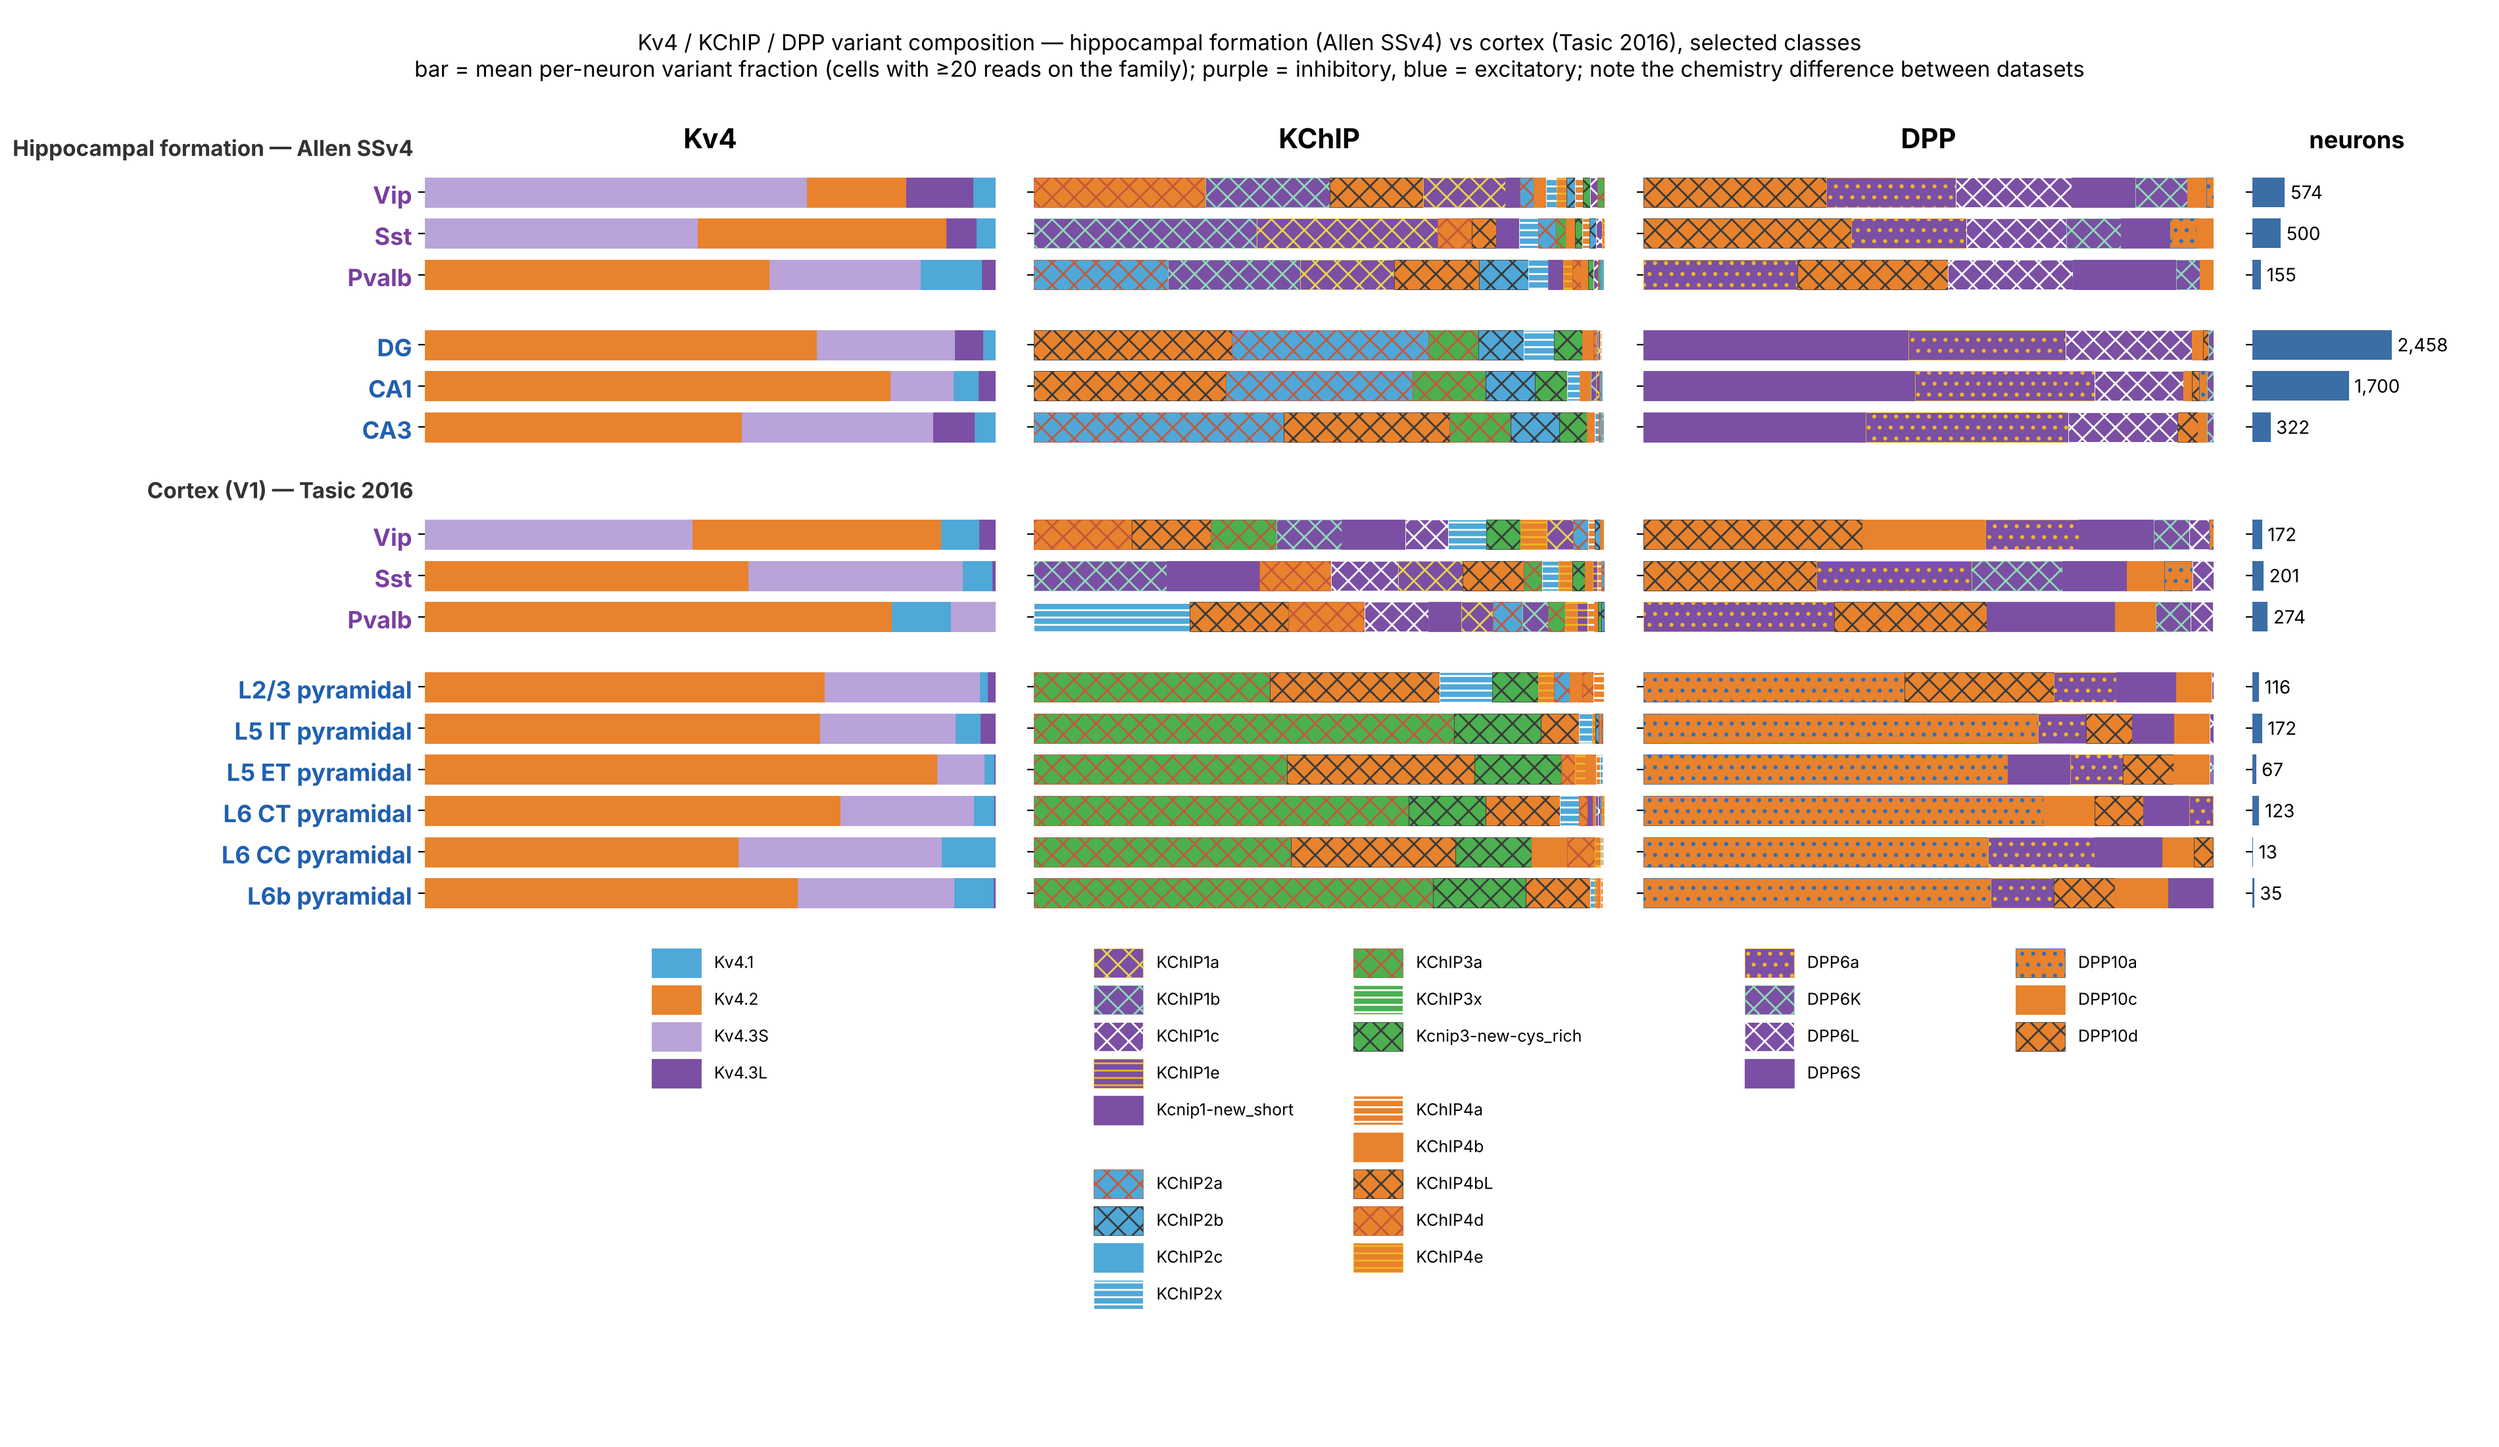
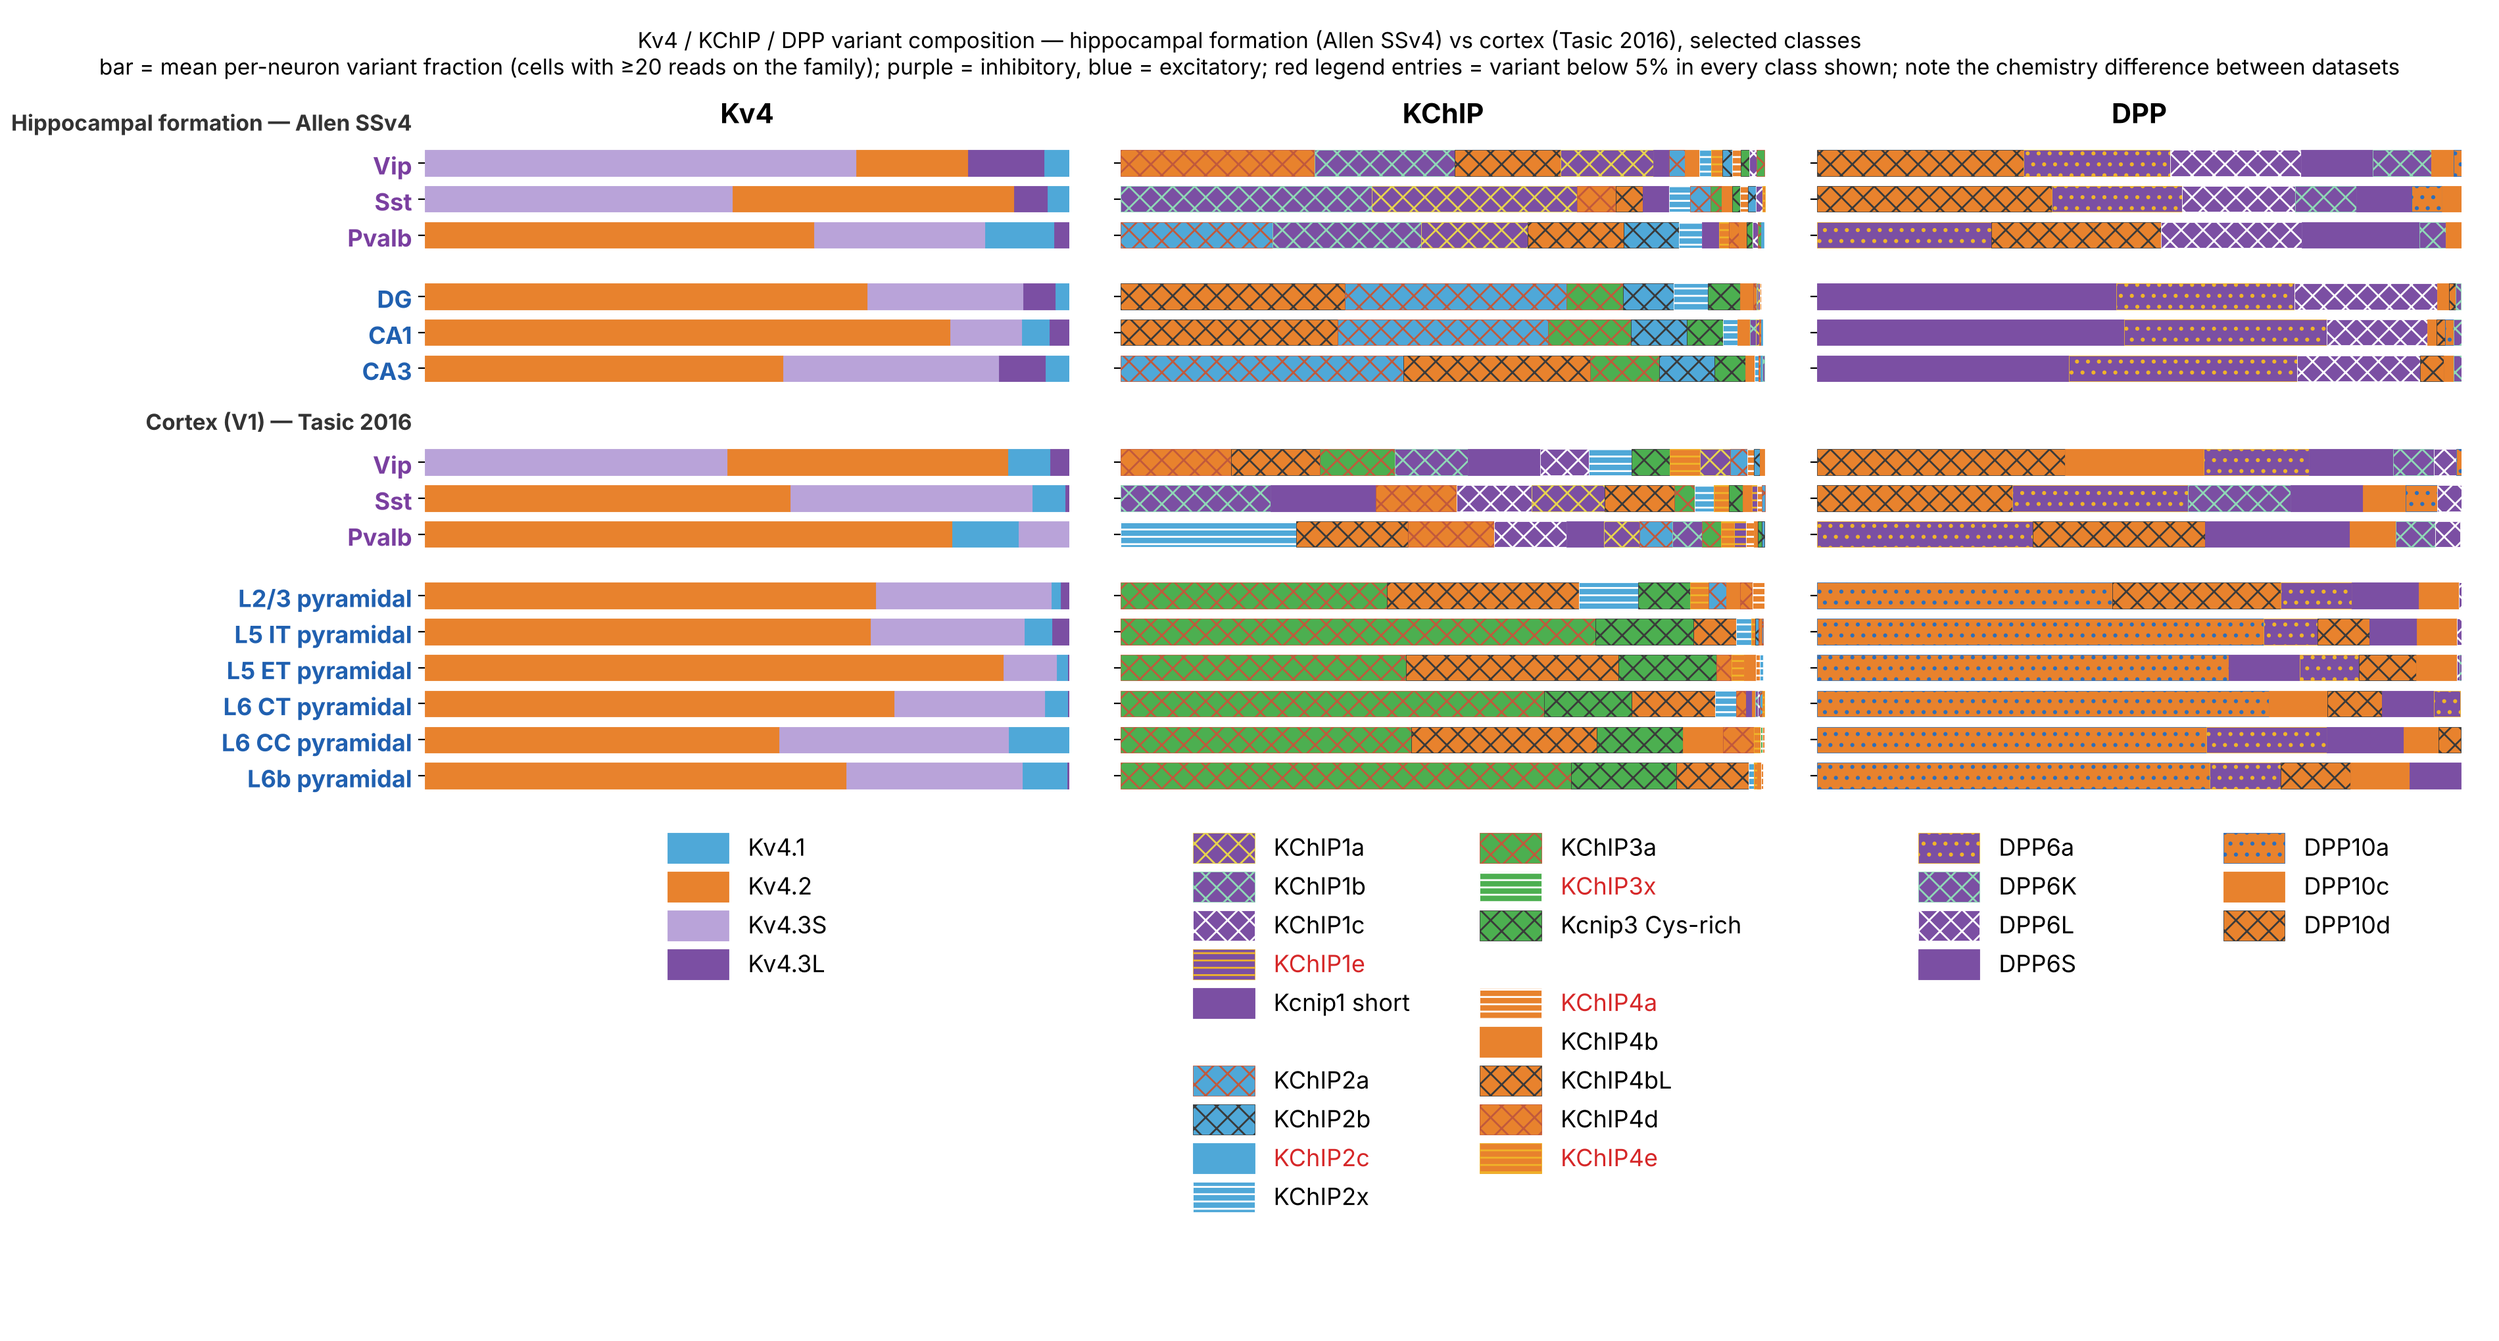
Simplified composition figure: drop neuron column, larger legend, flag <5% variants in red
Claude-Session: https://claude.ai/code/session_01ArSnVWkoaSUa7FVzi6Tb2a

diff --git a/scripts/simple_composition.py b/scripts/simple_composition.py
@@ -73,7 +73,7 @@ for ri, (region, d, classes) in enumerate(rows):
         if prev_inh is not None and inh != prev_inh: y += 0.7
         ypos[(region, label)] = y; region_of[(region, label)] = region; y += 1.0; prev_inh = inh
 ymax = y
-fig, axes = plt.subplots(1, 4, figsize=(19, 0.5 * ymax + 2.0), sharey=True, gridspec_kw={'width_ratios': [3, 3, 3, 1.1]})
+fig, axes = plt.subplots(1, 3, figsize=(19, 0.5 * ymax + 1.2), sharey=True)
 BH = 0.72
 for ax, panel in zip(axes[:3], PANEL_V):
     for region, label, fr, n, nu in comp:
@@ -94,36 +94,39 @@ for lbl, k in zip(axes[0].get_yticklabels(), keys):
 for region, d, classes in rows:
     top = ymax - ypos[(region, classes[0][0])] + 0.75
     axes[0].text(-0.02, top, region, fontsize=12, fontweight='bold', ha='right', va='bottom', color='#333', transform=axes[0].get_yaxis_transform())
-# n cells
-ax = axes[3]
-nmax = max(n for _, _, _, n, _ in comp)
-for region, label, fr, n, nu in comp:
-    yy = ymax - ypos[(region, label)]
-    ax.barh(yy, n, color='#3A6EA5', height=BH)
-    ax.text(n + nmax * 0.04, yy, f'{n:,}', va='center', ha='left', fontsize=10)
-ax.set_xlim(0, nmax * 1.5); ax.set_xticks([]); ax.set_title('neurons', fontsize=13, fontweight='bold')
-for sp in ax.spines.values(): sp.set_visible(False)
 # legends
+DISPLAY = {'Kcnip1-new_short': 'Kcnip1 short', 'Kcnip3-new-cys_rich': 'Kcnip3 Cys-rich'}
+maxfrac = {}
+for region, label, fr, n, nu in comp:
+    for panel in PANEL_V:
+        for vc, f in fr[panel].items(): maxfrac[vc] = max(maxfrac.get(vc, 0), f)
+UNSEEN = {vc for vc, m in maxfrac.items() if m < 0.05}
 def legend_patches(vlist):
     pats = []
     for vc in vlist:
         if vc == BLANK: pats.append(mpatches.Patch(facecolor='none', edgecolor='none', label=' ')); continue
         base, kind, pcolor = VSPEC[vc]
-        pats.append(mpatches.Patch(facecolor=base, edgecolor=pcolor, hatch=HATCH[kind], label=vc, linewidth=0.3))
+        pats.append(mpatches.Patch(facecolor=base, edgecolor=pcolor, hatch=HATCH[kind], label=DISPLAY.get(vc, vc), linewidth=0.3))
     return pats
 for ax, panel in zip(axes[:3], PANEL_V):
     gl = LEGEND_GROUPS[panel]; xs = [0.5] if len(gl) == 1 else [0.28, 0.76]
-    legs = [ax.legend(handles=legend_patches([x for x in vl if x in PANEL_V[panel] or x == BLANK]), loc='upper center', bbox_to_anchor=(x, -0.01),
-                      ncol=1, fontsize=9, frameon=False, handlelength=3.0, handleheight=2.3) for x, vl in zip(xs, gl)]
+    legs = []
+    for x, vl in zip(xs, gl):
+        vl = [v for v in vl if v in PANEL_V[panel] or v == BLANK]
+        leg = ax.legend(handles=legend_patches(vl), loc='upper center', bbox_to_anchor=(x, -0.01),
+                        ncol=1, fontsize=13, frameon=False, handlelength=2.6, handleheight=1.6, labelspacing=0.35)
+        for txt, vc in zip(leg.get_texts(), vl):
+            if vc in UNSEEN: txt.set_color('#D62728')
+        legs.append(leg)
     for leg in legs[:-1]: ax.add_artist(leg)
 fig.suptitle('Kv4 / KChIP / DPP variant composition — hippocampal formation vs cortex, selected classes\n'
              f'bar = mean per-neuron variant fraction (cells with ≥{MIN_READS} reads on the family); purple = inhibitory, blue = excitatory; '
-             'both datasets Allen SMART-seq v4' if CTX_SOURCE == 'visp' else
+             'both datasets Allen SMART-seq v4; red legend entries = variant below 5% in every class shown' if CTX_SOURCE == 'visp' else
              'Kv4 / KChIP / DPP variant composition — hippocampal formation (Allen SSv4) vs cortex (Tasic 2016), selected classes\n'
-             f'bar = mean per-neuron variant fraction (cells with ≥{MIN_READS} reads on the family); purple = inhibitory, blue = excitatory; note the chemistry difference between datasets',
+             f'bar = mean per-neuron variant fraction (cells with ≥{MIN_READS} reads on the family); purple = inhibitory, blue = excitatory; red legend entries = variant below 5% in every class shown; note the chemistry difference between datasets',
              fontsize=12)
-fig.subplots_adjust(left=0.17, right=0.985, top=0.89, bottom=0.36, wspace=0.08)
+fig.subplots_adjust(left=0.17, right=0.985, top=0.9, bottom=0.40, wspace=0.08)
 fig.savefig(f'{OUT}/simple_composition_{CTX_SOURCE}.png', dpi=200)
-print('written', CTX_SOURCE)
+print('written', CTX_SOURCE); print('below 5% everywhere:', sorted(UNSEEN))
 for region, label, fr, n, nu in comp:
     print(f'{region[:12]:12s} {label:16s} n={n:5d}  used Kv4/KChIP/DPP = {nu["Kv4"]}/{nu["KChIP"]}/{nu["DPP"]}')
